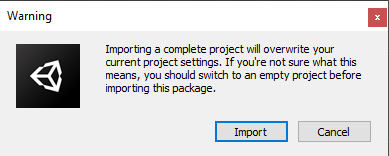
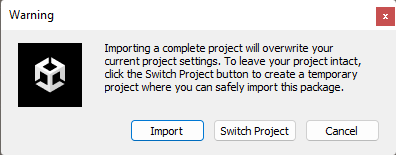
fixes for limitations & samples instructions

diff --git a/limitations.md b/limitations.md
@@ -10,7 +10,7 @@
 
 ## Dynamic Physics Interactions
 
-Dynamic physics interactions (pushing and being pushed by dynamic rigidbodies) are the area where a kinematic character controller will have the most limitations, as opposed to a character controller implemented fully with rigidbody physics. However, a dynamic rigidbody character controller would have plenty of different limitations of it own (mostly related to control & quality of movement and collision solving), and so the choice of kinematic VS dynamic characters is always a choice of trade-offs.
+Dynamic physics interactions (pushing and being pushed by dynamic rigidbodies) are an area where a kinematic character controller will have the most limitations, as opposed to a character controller implemented fully with rigidbody physics. However, a dynamic rigidbody character controller would have plenty of different limitations of its own (limited control over movement and collision-solving), so the choice of kinematic VS dynamic characters is always a choice of trade-offs.
 
 Rival offers support for [dynamic rigidbody interactions](./How_To/dynamic-body-interaction.md), which tries to immitate the behaviour of a fully dynamic character. There are, however, some limitations:
 

diff --git a/Samples/samples-installation.md b/Samples/samples-installation.md
@@ -30,7 +30,7 @@ Here are the steps required in order to install the Rival Samples project:
 ![](../Images/samples-install-input-both-restart.png)
 
 * After the restart, go to the “Assets/Rival/Samples” folder, and open “RivalSamples.unitypackage” by double-clicking on it inside Unity's "Project" window. 
-* A popup will appear saying this package will overwrite all project settings: click "Import"
+* A popup will appear saying this package will overwrite all project settings: click "Import" (Note: depending on your Unity version, you may get a version of this popup without the "Switch Project" option displayed on this screenshot. You can still just go with the "Import" option)
 
 ![](../Images/samples-install-overwrite-settings-popup.png)
 
